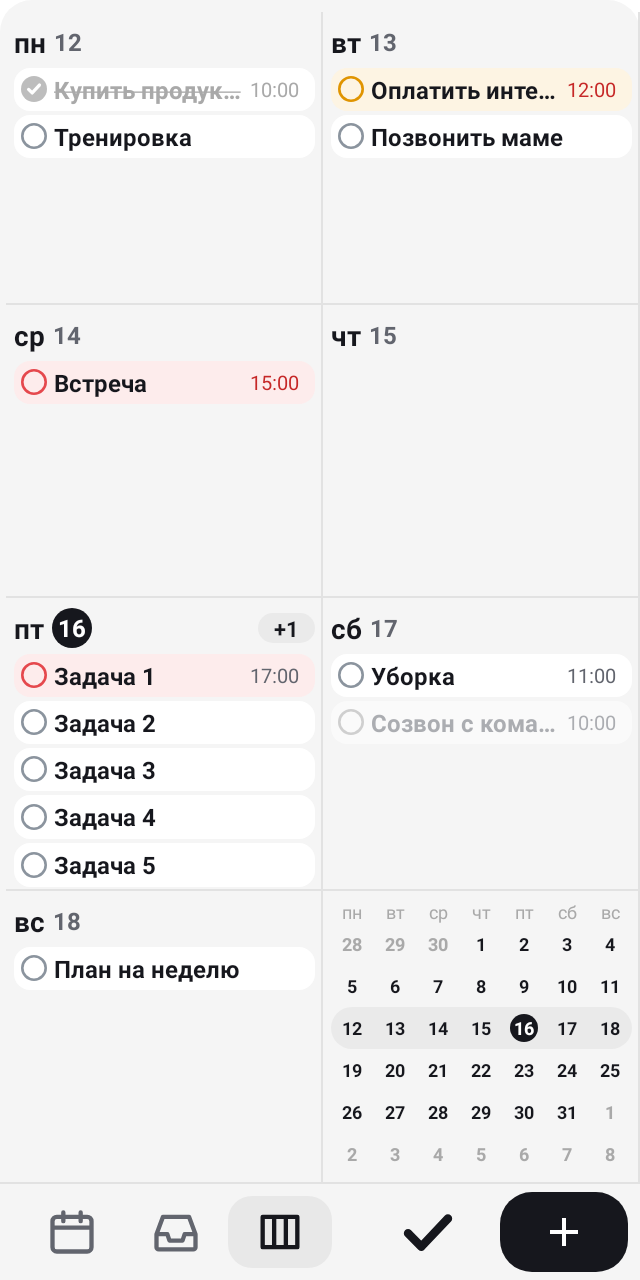
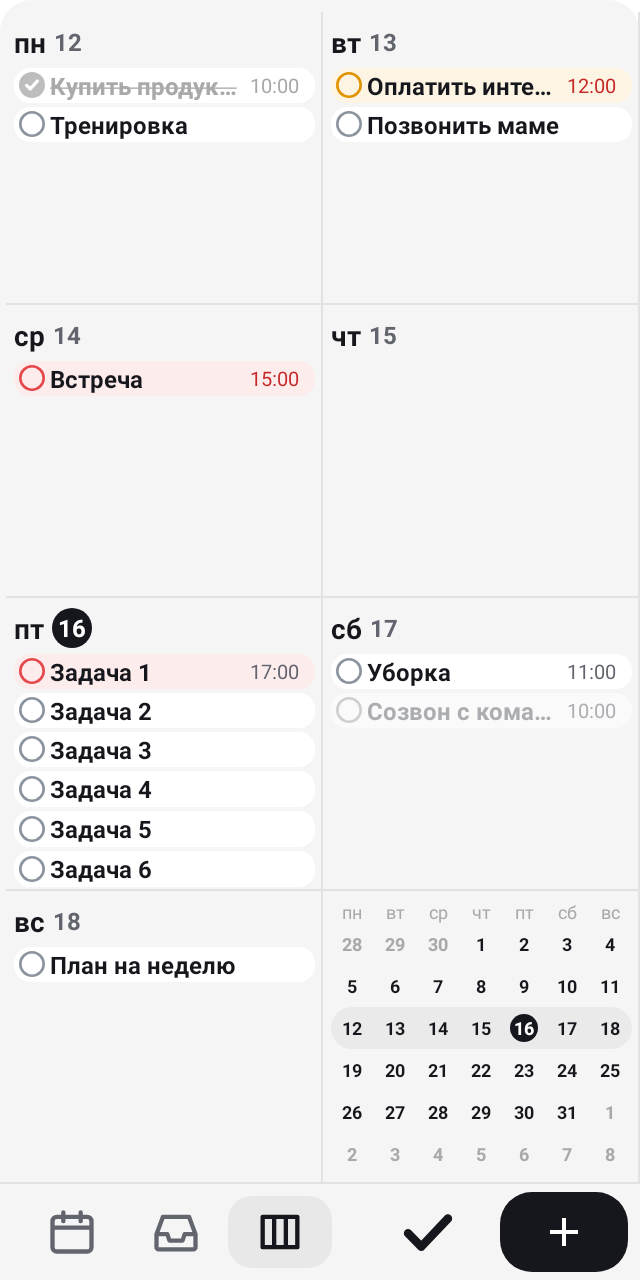
Виджет «Неделя»: 6 задач в ячейке на телефоне
Число строк задач считалось по строке 20 dp, и на виджете Samsung PM влезало 5 (шестая — в «+1»).
Строки и так делят высоту ячейки поровну, поэтому порог — наименьшая читаемая строка 18 dp: на виджете
во весь экран 6 задач, настоящая высота строки ~20 dp. Тест sixTasksFitOnAFullScreenWidget.

Claude-Session: https://claude.ai/code/session_015FwwajEv4Pe9GNk24oanC3

diff --git a/app/src/main/java/com/prostovasei/simpletasks/designsystem/tokens/DimensionTokens.kt b/app/src/main/java/com/prostovasei/simpletasks/designsystem/tokens/DimensionTokens.kt
@@ -226,11 +226,12 @@ object SizeTokens {
     const val WEEKVIEW_CELL_MIN = 112
 
     /**
-     * Вид «Неделя» в виджете (итерация 45, макет `VariantK1`; 0.46.0 — `VariantK2`, компактные строки): плашка задачи и промежуток
-     * между плашками, кружок и галочка в нём, строка даты, кружок «сегодня» у числа, мини-календарь («пн…вс», день) и высота строки
+     * Вид «Неделя» в виджете (итерация 45, макет `VariantK1`; 0.46.0 — `VariantK2`, компактные строки): наименьшая строка задачи
+     * (настоящая делит высоту ячейки поровну и обычно выше — ~20; по наименьшей считается, сколько строк влезает, решение PM — до 6) и промежуток
+     * между строками, кружок и галочка в нём, строка даты, кружок «сегодня» у числа, мини-календарь («пн…вс», день) и высота строки
      * недели, пока размер виджета неизвестен (по ней считается только число строк задач: сами строки делят высоту виджета поровну).
      */
-    const val WIDGET_WEEK_TASK = 20
+    const val WIDGET_WEEK_TASK = 18
     const val WIDGET_WEEK_TASK_GAP = 2
     const val WIDGET_WEEK_CHECK = 13
     const val WIDGET_WEEK_TICK = 9

diff --git a/app/src/main/java/com/prostovasei/simpletasks/widget/WidgetWeekRows.kt b/app/src/main/java/com/prostovasei/simpletasks/widget/WidgetWeekRows.kt
@@ -64,7 +64,10 @@ object WidgetWeekRows {
         return ((height - SizeTokens.WIDGET_EDGE - SizeTokens.WIDGET_BAR) / ROWS).coerceAtLeast(SizeTokens.WIDGET_WEEK_ROW_MIN.toFloat())
     }
 
-    /** Сколько строк задач влезает в ячейку высотой [rowHeight] (поле сверху, строка даты, строки с промежутком над каждой). */
+    /**
+     * Сколько строк задач влезает в ячейку высотой [rowHeight] (поле сверху, строка даты, строки с промежутком над каждой) — по наименьшей
+     * читаемой строке `WIDGET_WEEK_TASK`: сами строки делят высоту поровну и выходят выше. Решение PM — до 6 в ячейке.
+     */
     fun capacity(rowHeight: Float): Int {
         val room = rowHeight - SpacingTokens.XXS - SizeTokens.WIDGET_WEEK_HEADER
         return (room / (SizeTokens.WIDGET_WEEK_TASK + SizeTokens.WIDGET_WEEK_TASK_GAP)).toInt().coerceIn(0, WeekIds.SLOTS)

diff --git a/app/src/test/java/com/prostovasei/simpletasks/widget/WidgetWeekTest.kt b/app/src/test/java/com/prostovasei/simpletasks/widget/WidgetWeekTest.kt
@@ -170,6 +170,14 @@ class WidgetWeekTest {
         assertEquals(1, root.findViewById<ViewGroup>(R.id.widget_overlay).childCount)
     }
 
+    /** Решение PM — 6 задач в ячейке: на виджете во весь экран телефона (Samsung PM: ~640–680 dp) влезает 6, а не 5. */
+    @Test
+    fun sixTasksFitOnAFullScreenWidget() {
+        listOf(640, 680, 700).forEach { h ->
+            assertEquals("высота $h dp", 6, WidgetWeekRows.capacity(WidgetWeekRows.rowHeightDp(DpSize(360.dp, h.dp))))
+        }
+    }
+
     /** Пустые места под задачи невидимы, но держат размер (строки во всех ячейках одной высоты); лишние места убраны. */
     @Test
     fun emptySlotsKeepTheirShareAndExtraSlotsAreGone() {

diff --git a/design/system/ds_more.py b/design/system/ds_more.py
@@ -890,12 +890,12 @@ README_MORE = {
                       '''Чёрная капсула `accent` высотой `size-popup-strip` (68), поля от краёв `size-popup-edge` (12), щель между полосками `size-popup-gap` (8). Слева колокольчик 22 `on-accent`; название `body-large` Bold, ниже подпись «Сегодня, 18:00 · Дом» `label-small` 80%.
 Справа круглые кнопки `size-popup-button` (48): «на завтра в это же время» (`on-accent` 18%, значок листка) и «выполнено» (`surface`, галочка `accent`). Смахнуть вправо — закрыть. Видно до трёх полосок, остальные — метка «ещё N».
 Состояние «Отменить»: полоска «Выполнено» или «Завтра, 18:00» с белой кнопкой «Отменить» и тонкой линией внизу, которая тает за 1,5 секунды. Без вибрации и без кольца «Пульс». Источник: `notifications/ReminderPopup.kt`.'''),
-    'WidgetWeek': ('Виджет, вкладка «Неделя» (0.45, вид строк и календаря — 0.46).', 'Четыре строки ленты одинаковой высоты над плоской нижней строкой (`WidgetBar`): Пн–Вт, Ср–Чт, Пт–Сб, Вс и мини-календарь. Ячейка — как `WeekView`, но мельче: строка `size-widget-week-task` (20), промежуток `size-widget-week-task-gap` (2), кружок `size-widget-week-check` (13), строка даты `size-widget-week-header` (22), кружок «сегодня» `size-widget-week-today` (20); фон строки по приоритету (`week-row-*`), выполненная — серая и зачёркнутая. Календарь без строки месяца и стрелок: неделя с днями соседнего месяца перелистывает его. Подробно — в README `Widget`. Источник: `widget/WidgetWeekRows.kt`, разметка — `design/tools/gen_widget_week.py`.'),
+    'WidgetWeek': ('Виджет, вкладка «Неделя» (0.45, вид строк и календаря — 0.46).', 'Четыре строки ленты одинаковой высоты над плоской нижней строкой (`WidgetBar`): Пн–Вт, Ср–Чт, Пт–Сб, Вс и мини-календарь. Ячейка — как `WeekView`, но мельче: строка не ниже `size-widget-week-task` (18; делят высоту ячейки поровну, обычно ~20), промежуток `size-widget-week-task-gap` (2), кружок `size-widget-week-check` (13), строка даты `size-widget-week-header` (22), кружок «сегодня» `size-widget-week-today` (20); фон строки по приоритету (`week-row-*`), выполненная — серая и зачёркнутая. Календарь без строки месяца и стрелок: неделя с днями соседнего месяца перелистывает его. Подробно — в README `Widget`. Источник: `widget/WidgetWeekRows.kt`, разметка — `design/tools/gen_widget_week.py`.'),
     'Widget': ('Виджет «Задачи»: лента по дням со шкалой, «сейчас» и нижняя строка.',
                '''Фон `background`, радиус `radius-xl`. Список по дням: подпись дня (красная у прошедшего), строки шкалы как в `TimelineRow`, у «Сегодня» линия прогресса. Отметка «сейчас»: чёрное время слева, точка на линии и линия до края (`size-widget-now-row` 14).
 Внизу плоская нижняя строка (`WidgetBar`, 0.46.0: фон `background`, линия сверху); справа у подписи каждого дня число задач (у «Сегодня» вместо него прогресс), `text-secondary` 12. В виджете нет градиентов и размытия: фон и скругления — готовыми картинками. Цвета те же, что в приложении: Glance сам выбирает светлую или тёмную тему.
 Объём (итерация 42): во «Всех» — просроченные, сегодня и ещё 13 дней (с повторами); во «Входящих» и списках — все задачи; всего не больше 150 строк ленты. Строки «Ещё N» нет.
-Вид «Неделя» (итерация 45, третья вкладка переключателя; на Android 10–11 вместо неё «Все»): четыре строки одинаковой высоты (0.46.0: не лента, а вертикальная раскладка с долями — строки делят настоящую высоту виджета над нижней строкой, сколько бы ни сообщил рабочий стол) — Пн–Вт, Ср–Чт, Пт–Сб, Вс и мини-календарь; нижняя строка ничего не закрывает. Ячейка и мини-календарь — как в приложении (`WeekView`): строка `size-widget-week-task` (20) с промежутком `size-widget-week-task-gap` (2), фон по приоритету (`widget_week_plaque_*`), кружок `size-widget-week-check` (13), строка даты `size-widget-week-header` (22), сегодня — кружок `size-widget-week-today` (20); календарь мельче (цифры 9 sp, день `size-widget-week-cal-day` 14), без строки месяца и стрелок. Строк в ячейке по высоте (до 6), остальное «+N». Нажатия: кружок — «выполнено»/«вернуть», строка — открыть задачу, строка даты — полный день в приложении, строка календаря — неделя (и её месяц); выбор недели и месяца у каждого виджета свой. Разметка `widget_week_*`/`widget_row_week*` генерируется `design/tools/gen_widget_week.py`.
+Вид «Неделя» (итерация 45, третья вкладка переключателя; на Android 10–11 вместо неё «Все»): четыре строки одинаковой высоты (0.46.0: не лента, а вертикальная раскладка с долями — строки делят настоящую высоту виджета над нижней строкой, сколько бы ни сообщил рабочий стол) — Пн–Вт, Ср–Чт, Пт–Сб, Вс и мини-календарь; нижняя строка ничего не закрывает. Ячейка и мини-календарь — как в приложении (`WeekView`): строка не ниже `size-widget-week-task` (18; строки делят высоту ячейки поровну, обычно ~20) с промежутком `size-widget-week-task-gap` (2), фон по приоритету (`widget_week_plaque_*`), кружок `size-widget-week-check` (13), строка даты `size-widget-week-header` (22), сегодня — кружок `size-widget-week-today` (20); календарь мельче (цифры 9 sp, день `size-widget-week-cal-day` 14), без строки месяца и стрелок. Строк в ячейке по высоте (до 6, на телефоне обычно 6), остальное «+N». Нажатия: кружок — «выполнено»/«вернуть», строка — открыть задачу, строка даты — полный день в приложении, строка календаря — неделя (и её месяц); выбор недели и месяца у каждого виджета свой. Разметка `widget_week_*`/`widget_row_week*` генерируется `design/tools/gen_widget_week.py`.
 Устройство (итерация 42): на Android 12+ фон и лента — обычные элементы Android прямо в корне виджета (`widget_root`), каждая строка — своя разметка `widget_row_*` (задача, период, у выполненных — `*_done`, подпись дня, «Просрочено», «сейчас», хвост) ~1 КБ; нижняя строка — Glance поверх ленты, фоны «+» и выбранной вкладки — картинки со скруглением (`widget_bar_add`, `widget_bar_tab_selected`). Размеры и цвета строк — копия токенов в `res/values*/widget_rows.xml` (проверяет тест). Строка всегда задаёт весь свой вид: Android перекрашивает показанные строки другой задачи. Нажатия строк: кружок — «выполнено»/«вернуть», плашка — открыть задачу. Android 10–11 — лента Glance без прокрутки.'''),
     'ScreenAll': ('Экран «Все».', 'Лента по дням на `background`: подпись дня, шкала со строками `TimelineRow`, отметка «сейчас» у сегодняшнего дня; внизу нижняя панель. Пустая лента — `EmptyTasks`. Окно задачи открывается поверх.'),
     'ScreenInbox': ('Экран «Входящие».', 'Плоский список без подписей дней: слева колонка дня и времени (`size-timeline-day-column` 56, растёт вместе с системным шрифтом; `label-small`), дальше шкала. Квадратик списка не показывается там, где список один (в «Входящих» он есть: он общий). «+» в нижней панели.'),

diff --git a/design/system/build_design_system.py b/design/system/build_design_system.py
@@ -101,7 +101,7 @@ SIZE_PICK = {
     'ICON_TILE': ('icon-tile', 'Плитка значка в окне выбора значка.'),
     'NAV_BAR': ('nav-bar', 'Высота нижней панели (закреплена внизу на всю ширину).'), 'NAV_TAB': ('nav-tab', 'Наибольшая ширина кнопки вкладки; вкладки делят ширину поровну.'),
     'NAV_ADD_W': ('nav-add-w', 'Кнопка «+» в панели: ширина.'), 'NAV_ADD_H': ('nav-add-h', 'Кнопка «+» в панели: высота.'),
-    'WIDGET_WEEK_TASK': ('widget-week-task', 'Вид «Неделя» в виджете: строка задачи.'), 'WIDGET_WEEK_TASK_GAP': ('widget-week-task-gap', 'Вид «Неделя» в виджете: промежуток над строкой задачи.'), 'WIDGET_WEEK_CHECK': ('widget-week-check', 'Вид «Неделя» в виджете: кружок.'),
+    'WIDGET_WEEK_TASK': ('widget-week-task', 'Вид «Неделя» в виджете: наименьшая строка задачи; настоящая делит высоту ячейки поровну (обычно ~20).'), 'WIDGET_WEEK_TASK_GAP': ('widget-week-task-gap', 'Вид «Неделя» в виджете: промежуток над строкой задачи.'), 'WIDGET_WEEK_CHECK': ('widget-week-check', 'Вид «Неделя» в виджете: кружок.'),
     'WIDGET_WEEK_TICK': ('widget-week-tick', 'Вид «Неделя» в виджете: галочка в кружке.'), 'WIDGET_WEEK_HEADER': ('widget-week-header', 'Вид «Неделя» в виджете: строка даты.'),
     'WIDGET_WEEK_TODAY': ('widget-week-today', 'Вид «Неделя» в виджете: кружок «сегодня» у числа.'), 'WIDGET_WEEK_CAL_WEEKDAYS': ('widget-week-cal-weekdays', 'Мини-календарь в виджете: «пн…вс».'),
     'WIDGET_WEEK_CAL_DAY': ('widget-week-cal-day', 'Мини-календарь в виджете: день (кружок «сегодня»); меньше нельзя.'),
